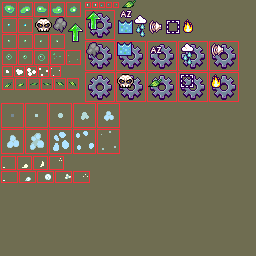
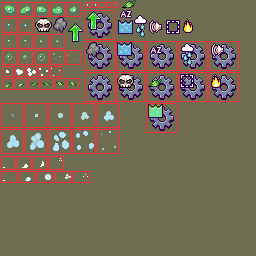
added 'properties' to water and used this to add acid

Changed region(s): [[0.5625, 0.375, 0.7188, 0.5312]]

diff --git a/src/water.cpp b/src/water.cpp
@@ -43,7 +43,10 @@ water::water(wml::const_node_ptr water_node) :
 				color[n] = 0;
 			}
 		}
-		areas_.push_back(area(r, color));
+
+		variant obj;
+		obj.serialize_from_string(area_node->attr("object"));
+		areas_.push_back(area(r, color, obj));
 	}
 }
 
@@ -55,19 +58,24 @@ wml::node_ptr water::write() const
 		wml::node_ptr node(new wml::node("area"));
 		node->set_attr("rect", a.rect_.to_string());
 		node->set_attr("color", formatter()
-		               << static_cast<int>(a.color[0]) << ","
-		               << static_cast<int>(a.color[1]) << ","
-		               << static_cast<int>(a.color[2]) << ","
-		               << static_cast<int>(a.color[3]));
+		               << static_cast<int>(a.color_[0]) << ","
+		               << static_cast<int>(a.color_[1]) << ","
+		               << static_cast<int>(a.color_[2]) << ","
+		               << static_cast<int>(a.color_[3]));
+
+		std::string obj;
+		a.obj_.serialize_to_string(obj);
+		node->set_attr("object", obj);
+
 		result->add_child(node);
 	}
 
 	return result;
 }
 
-void water::add_rect(const rect& r, const unsigned char* color)
+void water::add_rect(const rect& r, const unsigned char* color, variant obj)
 {
-	areas_.push_back(area(r, color));
+	areas_.push_back(area(r, color, obj));
 }
 
 void water::delete_rect(const rect& r)
@@ -269,7 +277,7 @@ bool water::draw_area(const water::area& a, int x, int y, int w, int h) const
 			waterline_rect.x + waterline_rect.w, underwater_rect.y + underwater_rect.h
 		};
 		
-		glColor4ubv(a.color);
+		glColor4ubv(a.color_);
 		glVertexPointer(2, GL_FLOAT, 0, vertices);
 		glDrawArrays(GL_TRIANGLE_STRIP, 0, sizeof(vertices)/sizeof(GLfloat)/2);
 		#if GL_OES_blend_subtract
@@ -388,13 +396,17 @@ void water::get_current(const entity& e, int* velocity_x, int* velocity_y) const
 	}
 }
 
-bool water::is_underwater(const rect& r, rect* result_water_area) const
+bool water::is_underwater(const rect& r, rect* result_water_area, variant* e) const
 {
 	const point p((r.x() + r.x2())/2, (r.y() + r.y2())/2);
 	foreach(const area& a, areas_) {
 		if(point_in_rect(p, a.rect_)) {
 			if(result_water_area) {
 				*result_water_area = a.rect_;
+			}
+
+			if(e) {
+				*e = a.obj_;
 			}
 			return true;
 		}
@@ -427,10 +439,10 @@ void water::init_area_surface_segments(const level& lvl, water::area& a)
 	}
 }
 
-water::area::area(const rect& r, const unsigned char* pcolor)
-  : rect_(r), distortion_(0, rect(0,0,0,0))
+water::area::area(const rect& r, const unsigned char* pcolor, variant obj)
+  : rect_(r), distortion_(0, rect(0,0,0,0)), obj_(obj)
 {
 	for(int n = 0; n != 4; ++n) {
-		color[n] = pcolor[n];
+		color_[n] = pcolor[n];
 	}
 }

diff --git a/src/water.hpp b/src/water.hpp
@@ -3,12 +3,13 @@
 
 #include <vector>
 
+#include "entity_fwd.hpp"
 #include "formula_fwd.hpp"
 #include "geometry.hpp"
 #include "raster_distortion.hpp"
+#include "variant.hpp"
 #include "wml_node_fwd.hpp"
 
-class entity;
 class level;
 
 class water
@@ -20,7 +21,7 @@ public:
 	wml::node_ptr write() const;
 
 	//color must point to an array of 4 bytes.
-	void add_rect(const rect& r, const unsigned char* color);
+	void add_rect(const rect& r, const unsigned char* color, variant obj);
 	void delete_rect(const rect& r);
 
 	bool draw(int x, int y, int w, int h) const;
@@ -32,7 +33,7 @@ public:
 
 	void get_current(const entity& e, int* velocity_x, int* velocity_y) const;
 
-	bool is_underwater(const rect& r, rect* water_area=NULL) const;
+	bool is_underwater(const rect& r, rect* water_area=NULL, variant* obj=NULL) const;
 
 	void add_wave(const point& p, double xvelocity, double height, double length, double delta_height, double delta_length);
 
@@ -52,7 +53,7 @@ public:
 private:
 
 	struct area {
-		area(const rect& r, const unsigned char* color);
+		area(const rect& r, const unsigned char* color, variant obj);
 		rect rect_;
 		graphics::water_distortion distortion_;
 		std::vector<char> draw_detection_buf_;
@@ -62,7 +63,8 @@ private:
 		//segments of the surface without solid.
 		std::vector<std::pair<int, int> > surface_segments_;
 
-		unsigned char color[4];
+		unsigned char color_[4];
+		variant obj_;
 	};
 
 	std::vector<area> areas_;

diff --git a/src/custom_object_callable.cpp b/src/custom_object_callable.cpp
@@ -11,7 +11,8 @@ const std::string CustomObjectProperties[] = {
 	"accel_x", "accel_y", "vars", "tmp", "group", "rotate", "me", "self",
 	"red", "green", "blue", "alpha", "damage", "hit_by", "jumped_on_by",
 	"distortion", "is_standing", "near_cliff_edge", "distance_to_cliff",
-	"slope_standing_on", "underwater", "water_bounds", "driver", "is_human", "invincible",
+	"slope_standing_on", "underwater", "water_bounds", "water_object",
+	"driver", "is_human", "invincible",
 	"sound_volume", "destroyed", "is_standing_on_platform", "standing_on",
 	"fragment_shaders", "vertex_shaders", "shader", "variations",
 	"attached_objects", "call_stack",

diff --git a/src/level.cpp b/src/level.cpp
@@ -2539,9 +2539,9 @@ int level::camera_rotation() const
 	return camera_rotation_->execute(*this).as_int();
 }
 
-bool level::is_underwater(const rect& r, rect* res_water_area) const
+bool level::is_underwater(const rect& r, rect* res_water_area, variant* v) const
 {
-	return water_ && water_->is_underwater(r, res_water_area);
+	return water_ && water_->is_underwater(r, res_water_area, v);
 }
 
 void level::get_current(const entity& e, int* velocity_x, int* velocity_y) const

diff --git a/src/custom_object.cpp b/src/custom_object.cpp
@@ -1395,6 +1395,11 @@ variant custom_object::get_value_by_slot(int slot) const
 			return variant();
 		}
 	}
+	case CUSTOM_OBJECT_WATER_OBJECT: {
+		variant v;
+		level::current().is_underwater(solid_rect(), NULL, &v);
+		return v;
+	}
 	case CUSTOM_OBJECT_DRIVER:            return variant(driver_ ? driver_.get() : this);
 	case CUSTOM_OBJECT_IS_HUMAN:          return variant(is_human() ? 1 : 0);
 	case CUSTOM_OBJECT_INVINCIBLE:        return variant(invincible_);

diff --git a/src/level.hpp b/src/level.hpp
@@ -191,7 +191,7 @@ public:
 	void set_next_level(const std::string& name);
 
 	int cycle() const { return cycle_; }
-	bool is_underwater(const rect& r, rect* res_water_area=NULL) const;
+	bool is_underwater(const rect& r, rect* res_water_area=NULL, variant* v=NULL) const;
 
 	void get_current(const entity& e, int* velocity_x, int* velocity_y) const;
 

diff --git a/src/custom_object_callable.hpp b/src/custom_object_callable.hpp
@@ -63,6 +63,7 @@ enum CUSTOM_OBJECT_PROPERTY {
 	CUSTOM_OBJECT_SLOPE_STANDING_ON,
 	CUSTOM_OBJECT_UNDERWATER,
 	CUSTOM_OBJECT_WATER_BOUNDS,
+	CUSTOM_OBJECT_WATER_OBJECT,
 	CUSTOM_OBJECT_DRIVER,
 	CUSTOM_OBJECT_IS_HUMAN,
 	CUSTOM_OBJECT_INVINCIBLE,

diff --git a/src/custom_object_functions.cpp b/src/custom_object_functions.cpp
@@ -1522,7 +1522,7 @@ public:
 	{}
 
 	virtual void execute(level& lvl, entity& ob) const {
-		lvl.get_or_create_water().add_rect(r_, color_.data());
+		lvl.get_or_create_water().add_rect(r_, color_.data(), variant(&ob));
 	}
 };
 
